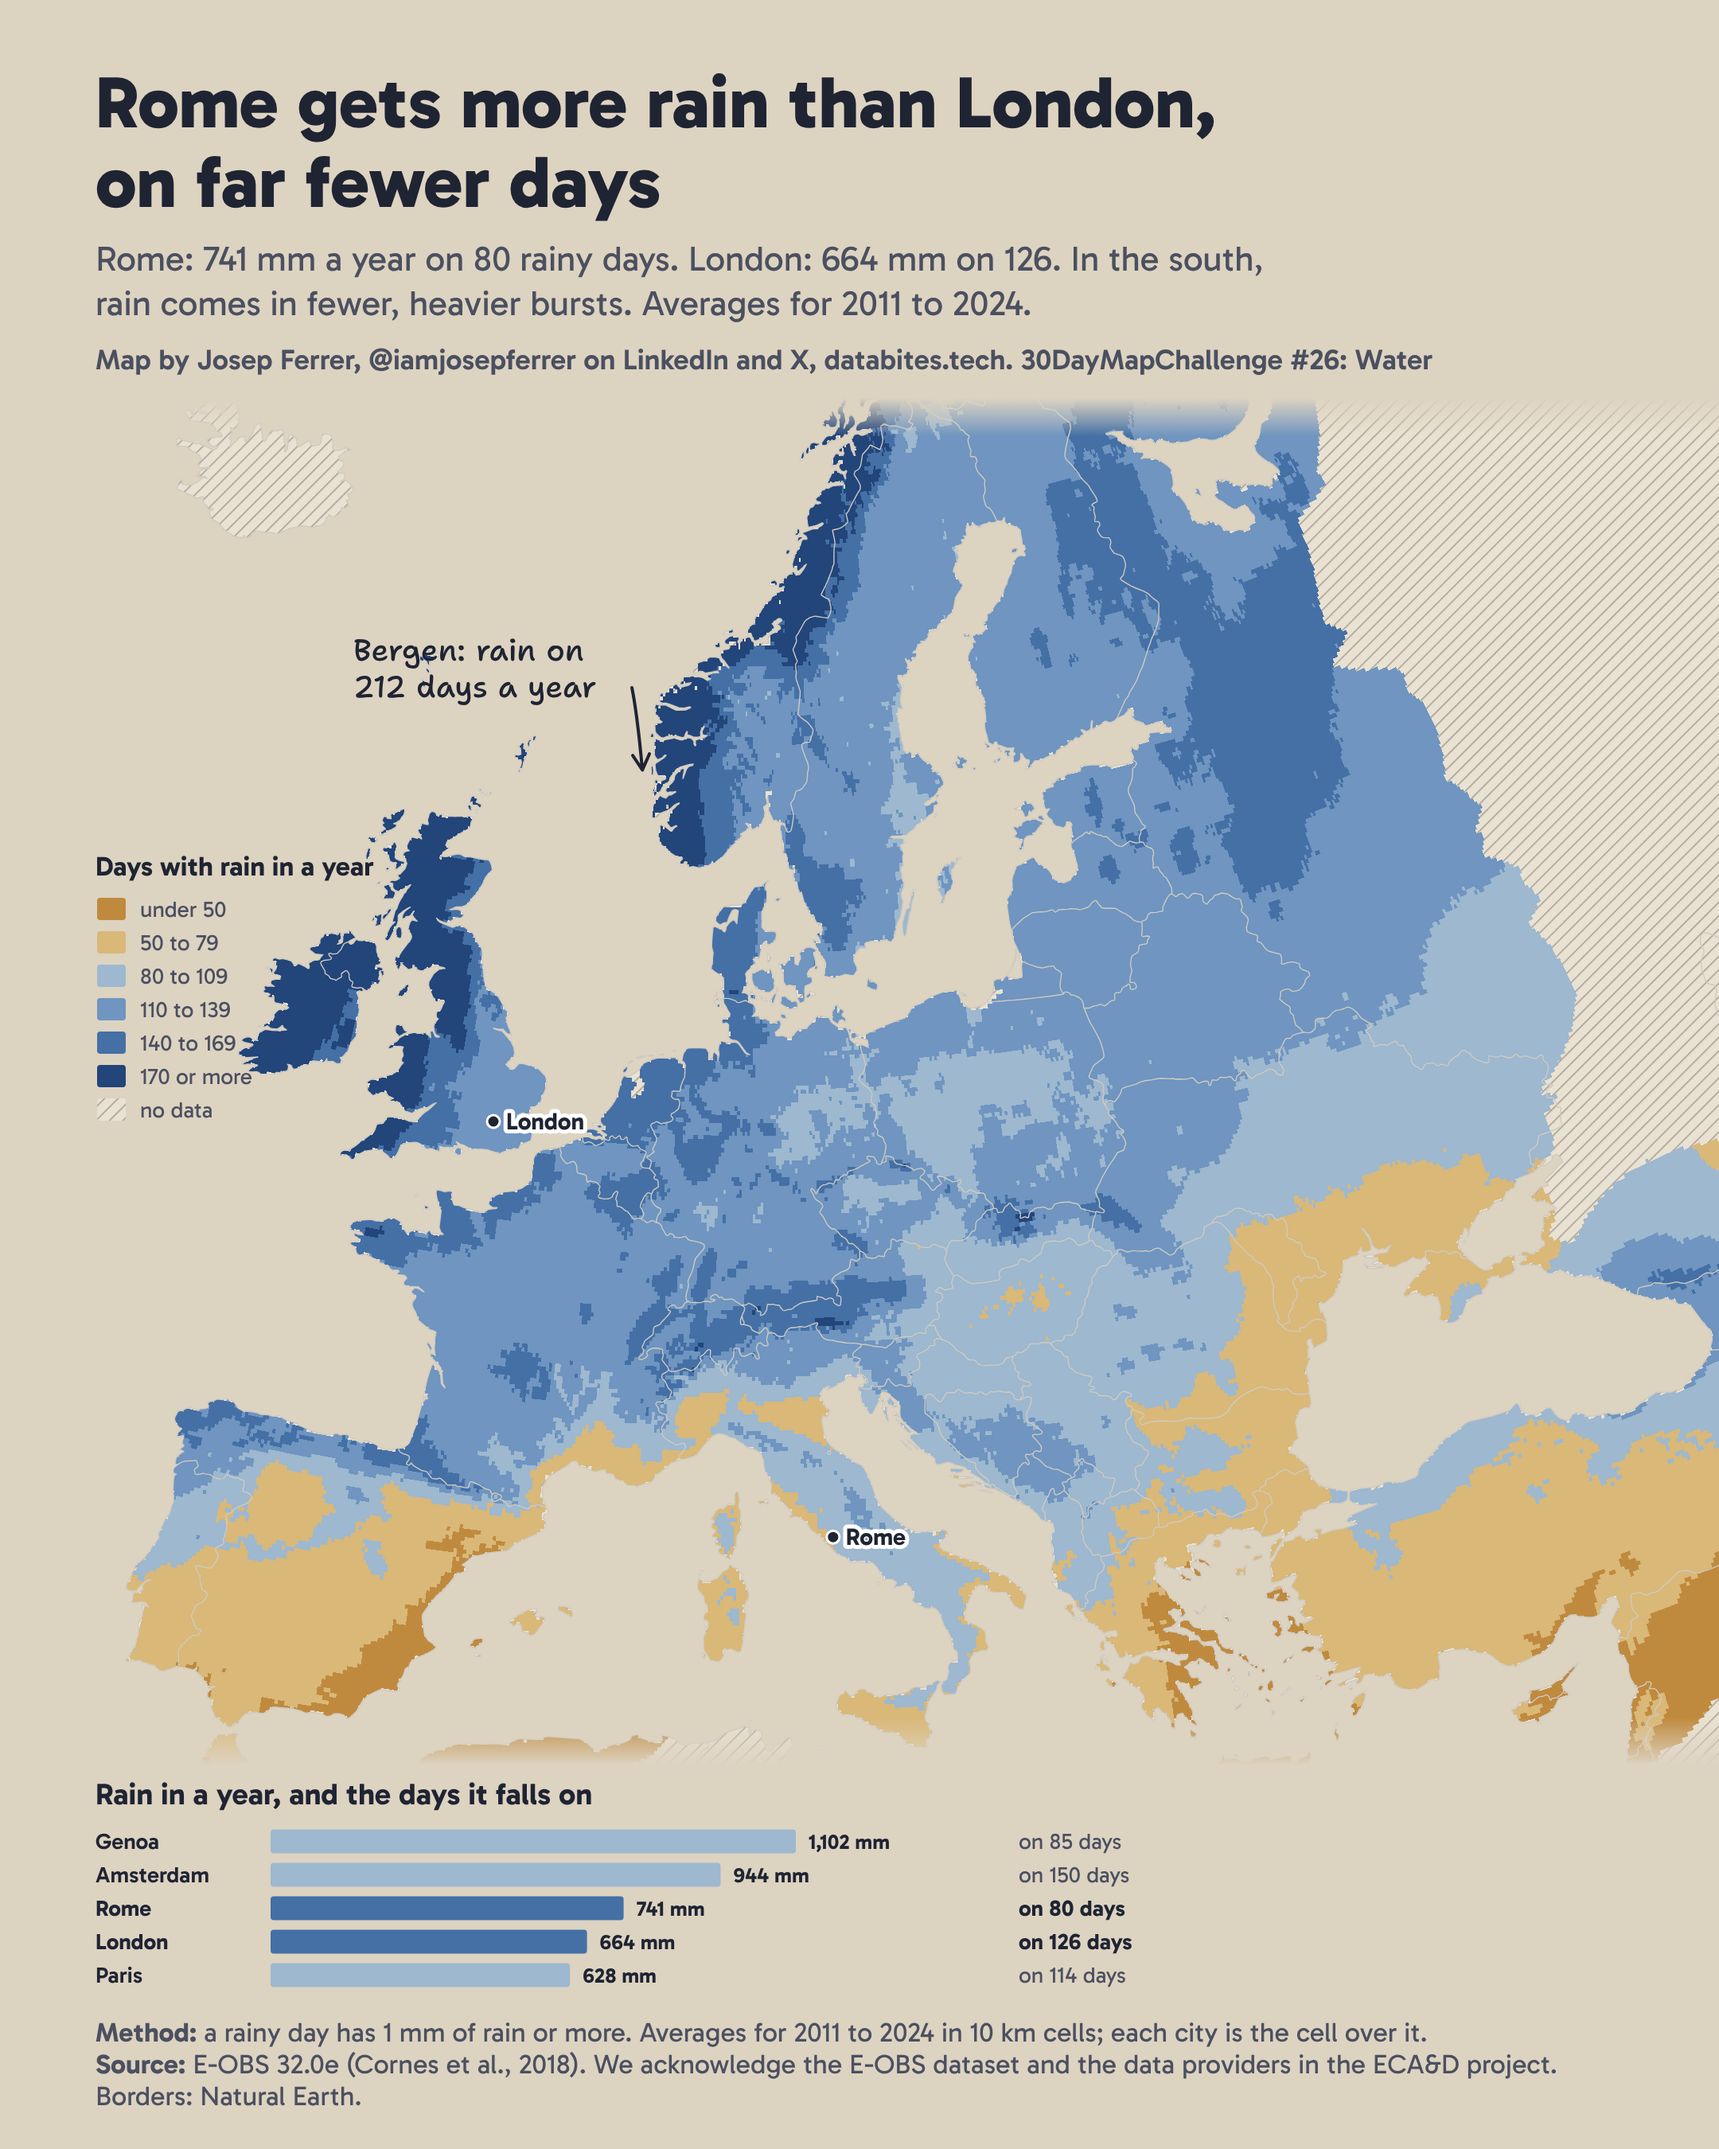
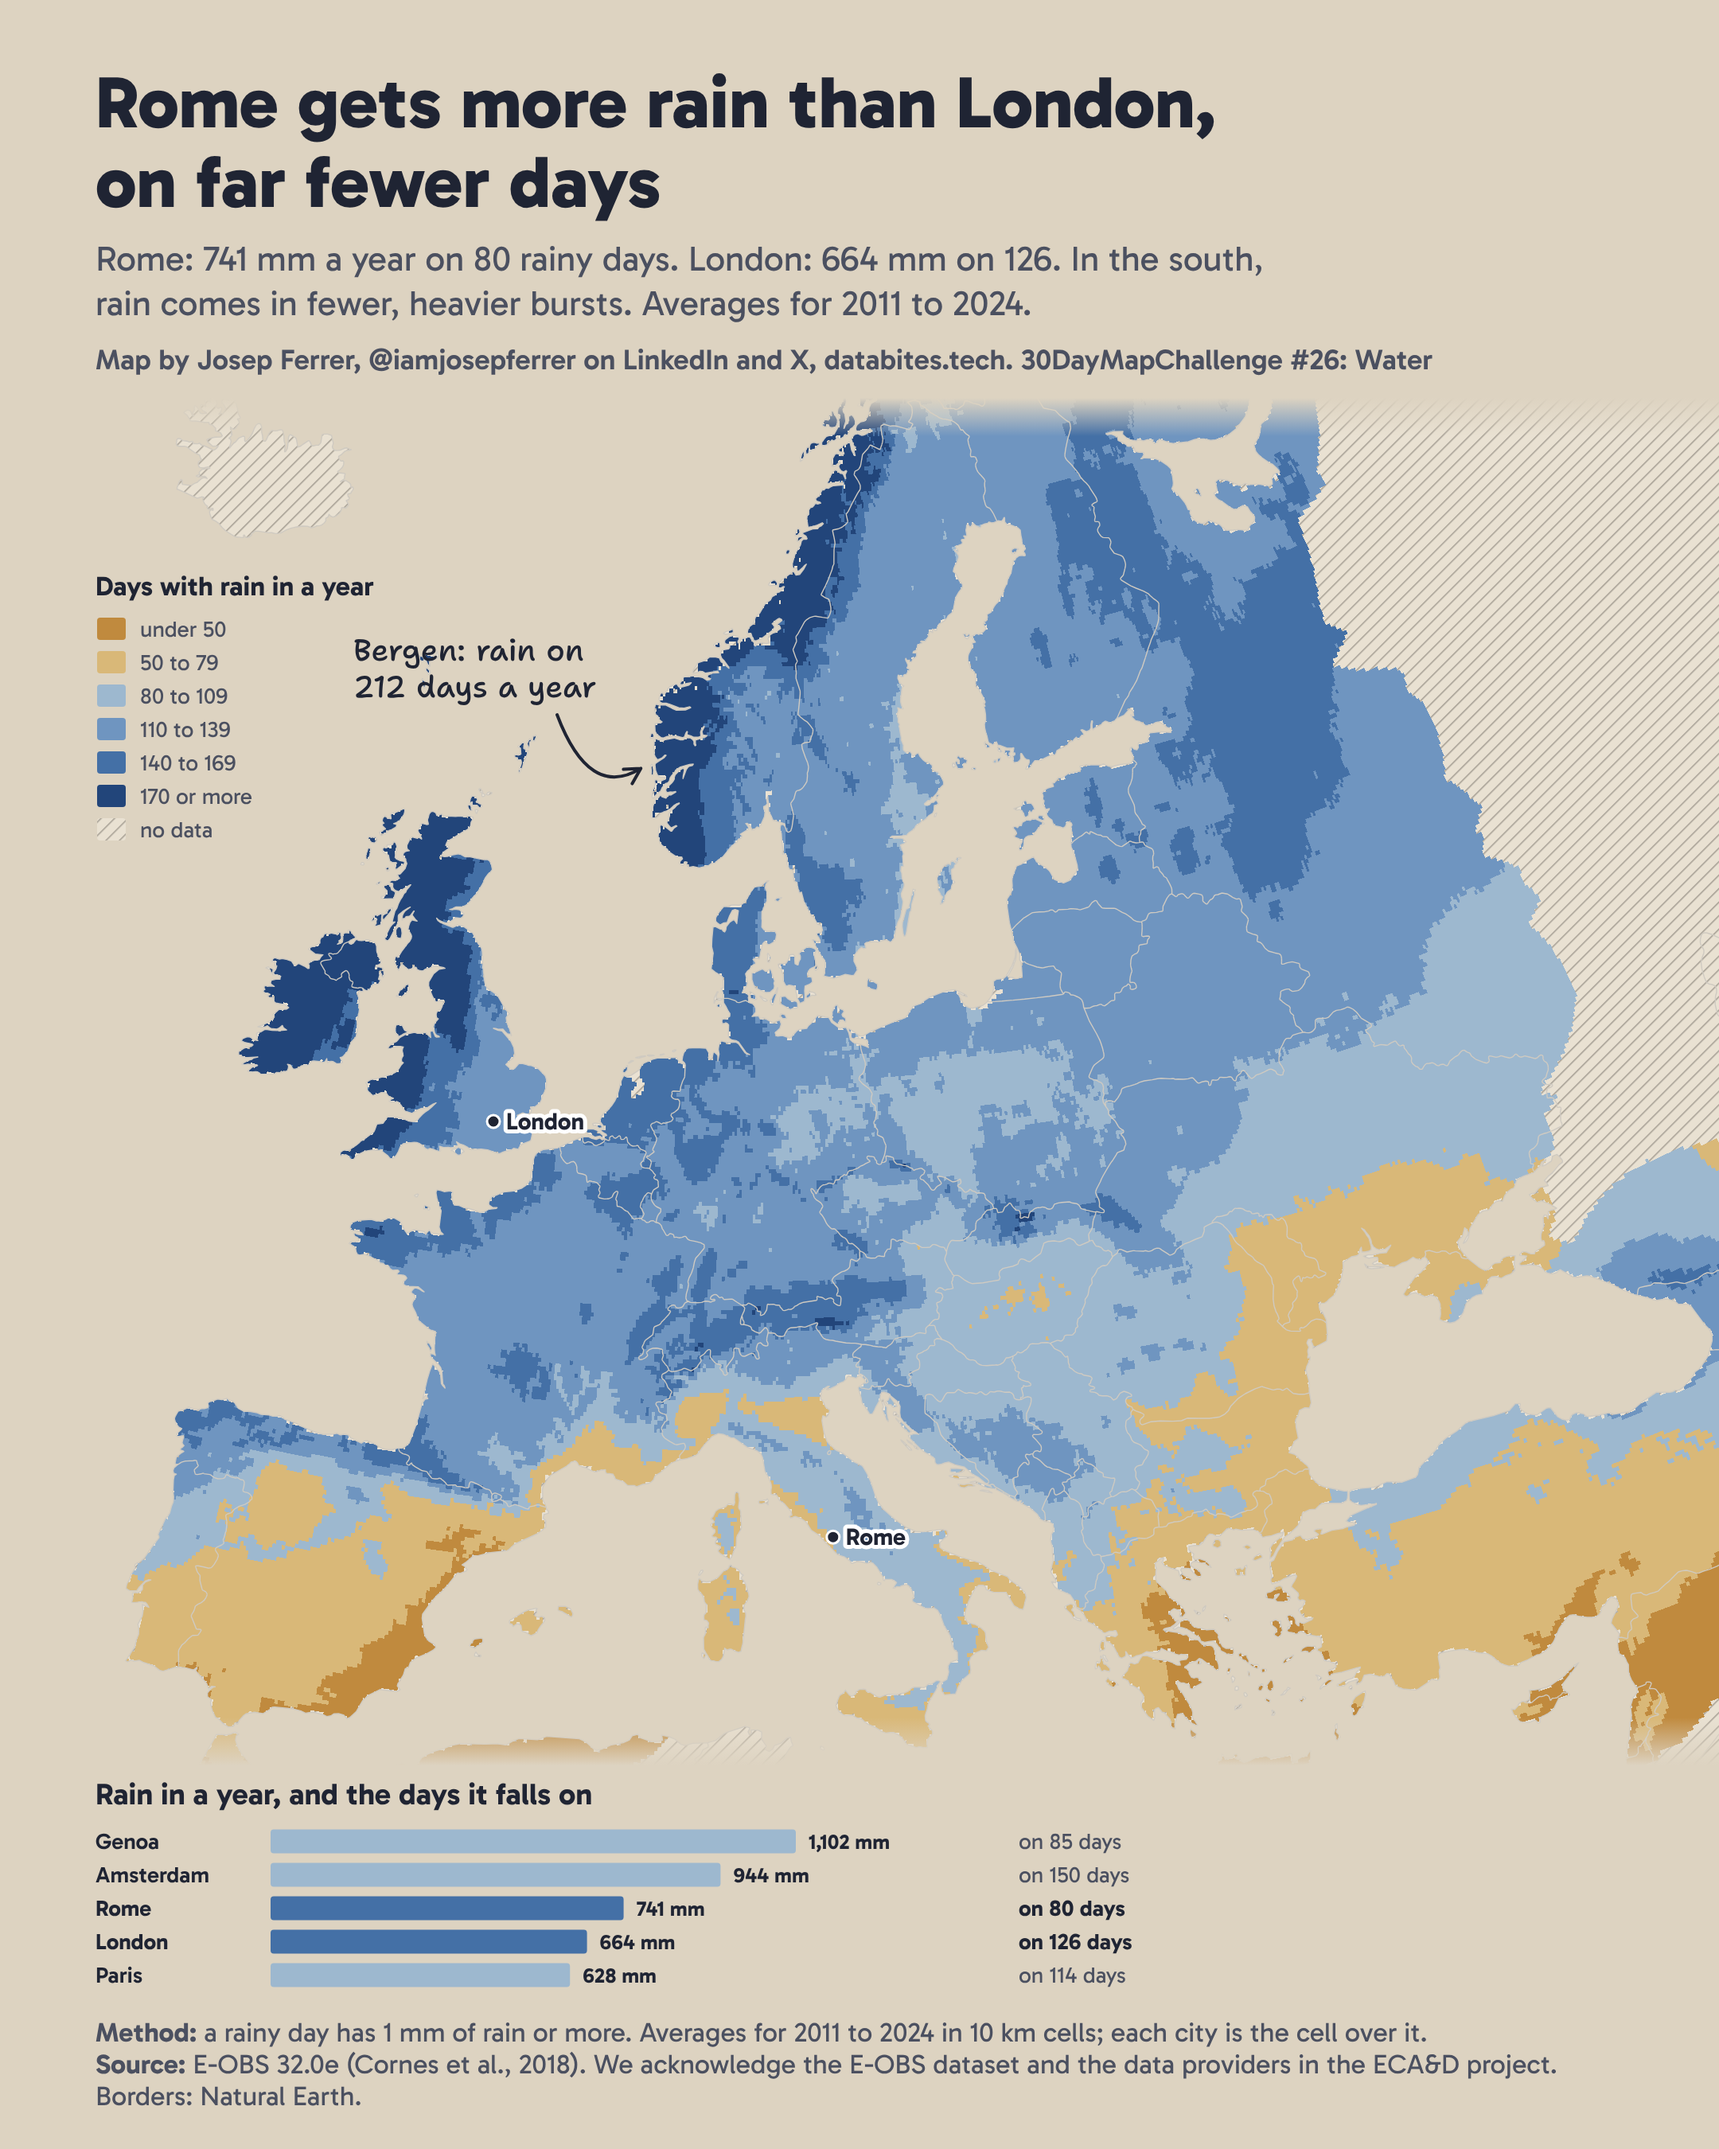
Day 26: legend moved up, curved arrow to Bergen

Changed region(s): [[0.031, 0.2489, 0.2171, 0.5289], [0.3412, 0.3422, 0.3722, 0.3733]]

diff --git a/2026/day26_water/day26_water.py b/2026/day26_water/day26_water.py
@@ -113,7 +113,7 @@ for name in ("Rome", "London"):
     svg.append(text(x + 8, y + 5, name, 15, 700, C["ink"], halo="#FFFFFF"))
 
 # Legend over the Atlantic, on the left margin
-LX, LY = 60, MAP_TOP + 300
+LX, LY = 60, MAP_TOP + 124  # over the Atlantic, between Iceland and Ireland
 svg.append(text(flush("D", 17, 700, LX), LY, "Days with rain in a year", 17, 700))
 labels = [f"under {BREAKS[0]}"] + [f"{a} to {b - 1}" for a, b in zip(BREAKS, BREAKS[1:])] + [f"{BREAKS[-1]} or more"]
 for k, (colour, label) in enumerate(zip(RAMP, labels)):
@@ -129,8 +129,10 @@ nx, ny, step = 222, MAP_TOP + 165, 23
 svg.append(f'<text class="note" x="{nx}" y="{ny}" font-size="19" fill="{C["ink"]}">'
            + "".join(f'<tspan x="{nx}" dy="{step if k else 0}">{line}</tspan>' for k, line in enumerate(NOTE)) + "</text>")
 tx, ty = frame.xy(*to3035.transform(5.0, 60.39))
-tx, ty = tx - 6, ty + 2
-sx, sy, qx, qy = nx + 175, ny + step - 6, (nx + 175 + tx) / 2, ny + step + 10
+tx, ty = tx - 7, ty + 1
+# from under the note, dipping a little, then rising into Bergen from the west
+sx, sy = nx + 128, ny + step + 11  # east of the Shetlands
+qx, qy = (sx + tx) / 2 - 6, max(sy, ty) + 20
 angle = np.arctan2(ty - qy, tx - qx)
 head = " ".join(f"L{tx + 11 * np.cos(angle + np.pi + t):.1f} {ty + 11 * np.sin(angle + np.pi + t):.1f} M{tx:.1f} {ty:.1f}" for t in (-0.5, 0.5))
 svg.append(f'<path d="M{sx} {sy} Q {qx:.1f} {qy:.1f}, {tx:.1f} {ty:.1f} {head}" fill="none" stroke="{C["ink"]}" stroke-width="2" stroke-linecap="round" stroke-linejoin="round"/>')
